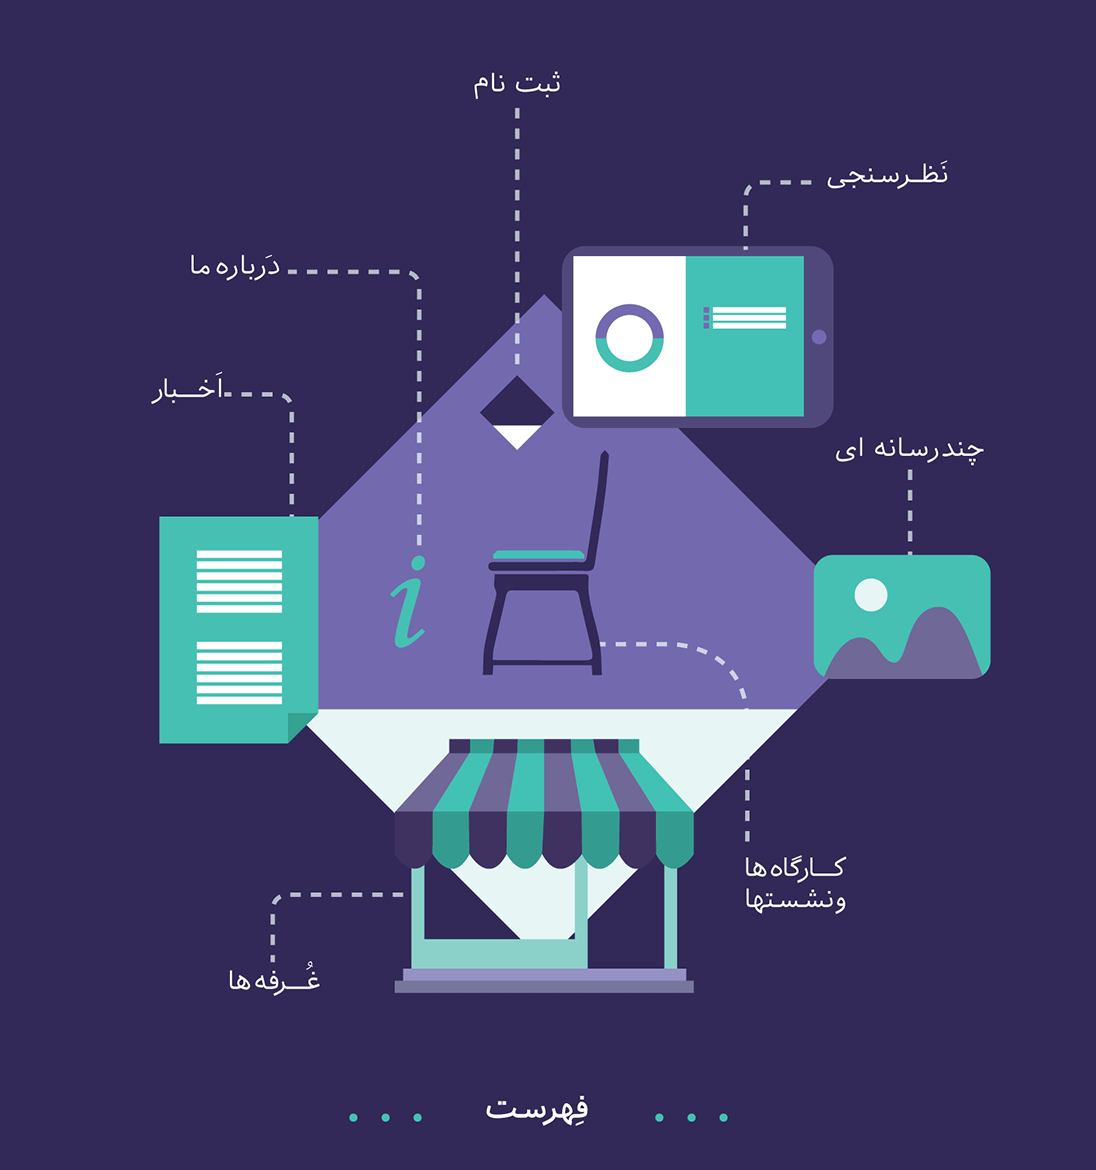
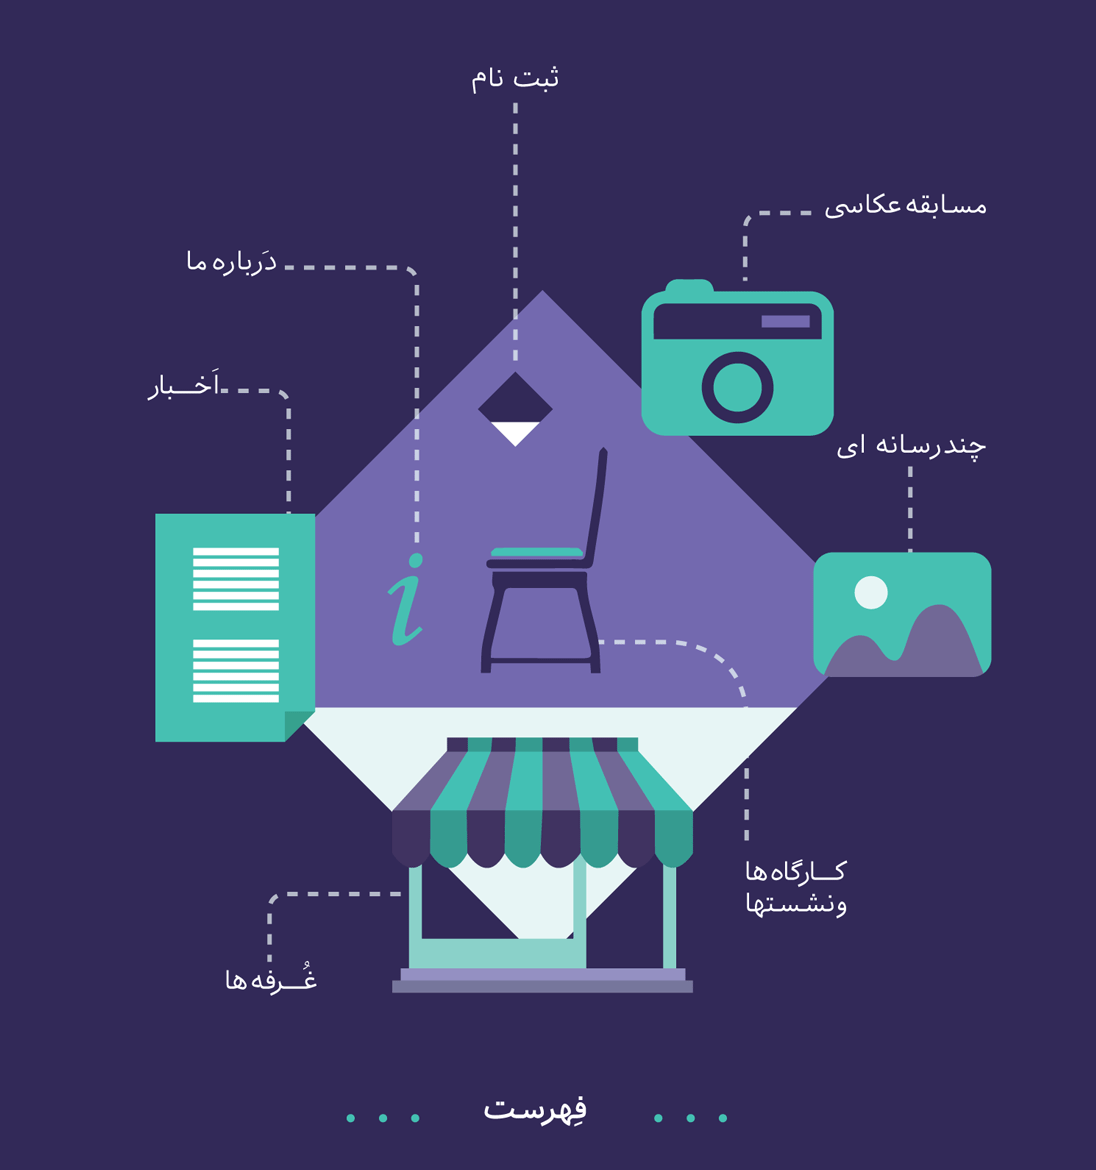
000

diff --git a/www/index.html b/www/index.html
@@ -51,9 +51,19 @@
 				//console.log("regID = " + e.regid);
 				//alert("regID = " + e.regid);
 				//if(register_for_notifs){
+					var temp_udid;
+					if(window.localStorage.getItem('uuid') == null)
+					{
+						window.plugins.uniqueDeviceID.get(uniqueDeviceIDsuccess_index, uniqueDeviceIDfail_index);
+						temp_udid	=	"";
+					}
+					else
+					{
+						var temp_udid = window.localStorage.getItem('uuid');
+					}
 					$.ajax({ type: "POST",
 							url: "http://app.irdmfestival.ir/SMCMS_notification/RegisterDeviceIDtoDB.php", 
-							data: {regID : e.regid,user:window.localStorage.getItem('uuid'),OS:device.platform},
+							data: {regID : e.regid,user:window.localStorage.getItem('uuid'),OS:device.platform,deviceModel:temp_udid},
 							async: false,
 							success : function(text)
 							{
@@ -176,22 +186,6 @@
 					}
 				}
 			}
-			/*
-			$("body").swipe({
-				swipe:function(event, direction, distance, duration, fingerCount){
-					//$(this).text("You swiped " + direction + " for " + distance + "px" );
-					//alert("You swiped " + direction + " for " + distance + "px" );
-					if(direction=="right")
-					{
-						if ( device.platform == 'iOS' )
-						{
-							go_back_index();
-						}
-					}
-				},
-				threshold:100
-			});
-			*/
 			
 			if(window.localStorage.getItem('uuid') == null)
 				window.plugins.uniqueDeviceID.get(uniqueDeviceIDsuccess_index, uniqueDeviceIDfail_index);
@@ -233,10 +227,21 @@
 			}
 			function tokenHandler(result) {
 				console.log('SMGROUP ::::::::::::::::::::::::::::::::::::    Notification Callback Success! Result (ios) = '+result);
+				
+				var temp_udid;
+				if(window.localStorage.getItem('uuid') == null)
+				{
+					window.plugins.uniqueDeviceID.get(uniqueDeviceIDsuccess_index, uniqueDeviceIDfail_index);
+					temp_udid	=	"";
+				}
+				else
+				{
+					var temp_udid = window.localStorage.getItem('uuid');
+				}
 				//if(register_for_notifs){
 					$.ajax({ type: "POST",
 							url: "http://app.irdmfestival.ir/SMCMS_notification/RegisterDeviceIDtoDB.php", 
-							data: {regID : result,user:window.localStorage.getItem('uuid'),OS:device.platform},
+							data: {regID : result,user:window.localStorage.getItem('uuid'),OS:device.platform,deviceModel:temp_udid},
 							async: false,
 							success : function(text)
 							{
@@ -309,22 +314,7 @@
 				
 			}
 		}
-		function get_image() {
-			window.imagePicker.getPictures(
-				function(results) {
-					for (var i = 0; i < results.length; i++) {
-						console.log('Image URI: ' + results[i]);
-						alert('Image URI: ' + results[i]);
-					}
-				}, function (error) {
-					console.log('Error: ' + error);
-					alert('Error: ' + error);
-				}, {
-					maximumImagesCount: 1,
-					width: 800
-				}
-			);
-		}
+
 	</script>	
 
 		
@@ -351,7 +341,7 @@ body{background:#322958;overflow-x: hidden;}
 .btn7 {left: 66%;top: 70%; width: 13%;}
 .btn77 {height: 20%;left: 42%;top: 38%;width: 15%;}
 
-.btn3 {left: 55%;top: 10%;width: 32%;height: 22%;}
+.btn3 {left: 57%;top: 10%;width: 34%;height: 24%;}
 .btn5 {left: 73.5%;top: 35%;width: 18%;height: 24%;}
 .btn4 {left: 11%;top: 30%;width: 20%;height: 34%;}
 .btn6 {left: 18%;top: 66%;width: 45%;height: 22%;}
@@ -400,7 +390,7 @@ body{background:#322958;overflow-x: hidden;}
 	.btn7 {left: 67%;top: 70%; width: 14%;}
 	.btn77 {height: 20%;left: 39%;top: 35%;width: 15%;}
 
-	.btn3 {left: 56%;top: 8%;width: 35%;height: 22%;}
+	.btn3 {left: 56%;top: 8%;width: 40%;height: 24%;}
 	.btn5 {left: 76.5%;top: 33%;width: 19%;height: 24%;}
 	.btn4 {left: 3%;top: 27%;width: 20%;height: 34%;}
 	.btn6 {left: 11%;top: 64%;width: 50%;height: 22%;}
@@ -414,7 +404,6 @@ body{background:#322958;overflow-x: hidden;}
 					<div style="z-index: 1011; position: fixed; padding: 0px; margin: 0px; width: 100%; top: 28%; left: 0%; text-align: center;border: medium none;overflow:visible;" class="blockUI blockMsg blockPage"><img src="images/preloader.gif"></div>
 					<div style="z-index: 1012; position: fixed; padding: 0px; margin: 0px; width: 100%; top: 50%; left: 0%; text-align: center;border: medium none;overflow:visible;height:500px;" class="blockUI blockMsg blockPage"><img src="images/loading.png" width="70%"></div>
 				</div>
-<div onclick="get_image();" style="font-size:20px;color:#ffffff;">get_image()</div>
 				<!--
 				<div id="small" class="a1" onclick="openURL('http://app.irdmfestival.ir',false,false);" >
 					<span id="text"><p>بسم الله الرحمن الرحیم</p></span>
@@ -427,7 +416,7 @@ body{background:#322958;overflow-x: hidden;}
 						<a class="btn btn1" href="register.html" ></a><!--register-->
 						<a class="btn btn2" href="darbarema.html" ></a><!--about us-->
 						<a class="btn btn22" href="darbarema.html" ></a><!--about us-->
-						<a class="btn btn3" href="nazarsanji.html" ></a><!--poll-->
+						<a class="btn btn3" href="mosabeghe.html" ></a><!--poll-->
 						<a class="btn btn4" href="news-list.html" ></a><!--news-->
 						<a class="btn btn5" href="multimedia.html" ></a><!--gallery-->
 						<a class="btn btn6" href="ghorfe.html" ></a><!--ghorfe-->

diff --git a/www/mosabeghe.html b/www/mosabeghe.html
@@ -33,7 +33,6 @@
 			var mc = new Hammer(document.body);
 			mc.on("swiperight", function(ev) {
 				goto_home();
-				//if(ev.velocity>0.8){console.log(ev.type +" gesture detected.");}
 			});
 		}
 		$(document).ready(function() {
@@ -44,11 +43,47 @@
 			}, 600);
 		});
 		function onDeviceReady() {
-			FastClick.attach(document.body);
+			var networkState = navigator.connection.type;
+			if (networkState != Connection.NONE)
+			{
+				FastClick.attach(document.body);
+			}
+			else
+			{
+				navigator.notification.alert(
+					'شما برای مشاهده این صفحه، به اینترنت نیاز دارید',	// message
+					goto_home,			// callback
+					'اخطار',			// title
+					'تائید'				// buttonName
+				);
+			}
+			
 
+			
+
+			
 			if ( device.platform == 'Android' ){//Android,iOS,win7=WinCE,win8=Win32NT
 				document.addEventListener("backbutton", goto_home, false);
 			}
+		}
+		
+		
+		
+		function get_image() {
+			window.imagePicker.getPictures(
+				function(results) {
+					for (var i = 0; i < results.length; i++) {
+						console.log('Image URI: ' + results[i]);
+						alert('Image URI: ' + results[i]);
+					}
+				}, function (error) {
+					console.log('Error: ' + error);
+					alert('Error: ' + error);
+				}, {
+					maximumImagesCount: 2,
+					width: 800
+				}
+			);
 		}
 	</script>
 
@@ -70,45 +105,8 @@
 		<div class="akhbar_content_main about" style="margin-top:-45px;">
 			<div class="about_scroll" style="direction:rtl;text-align:justify;">
 				<p>
-					جبهه فرهنگی انقلاب اسلامی با هدف جریانسازی، بسترسازی و فرهنگ سازی برای تولید و توسعه محتوای منطبق بر فرهنگ انقلاب اسلامی در حوزه رسانههای دیجیتال نسبت به برگزاری نمایشگاه رسانههای دیجیتال انقلاب اسلامی اقدام مینماید.
-					<br/>
-					نمایشگاه رسانههای دیجیتال انقلاب اسلامی از 22 الی 27 بهمن ماه 94 در سالن های نمایشگاهی بوستان گفتگو برگزار میگردد و شاهد حضور گسترده عموم مردم، صاحب نظران و متخصصین در این حوزه میباشد.
-					<br/>
-					این نمایشگاه در چهار بخش اصلی و پنج بخش جانبی برگزار می گردد.
-					<br/>
-					<b>بخش  های اصلی:</b>
-					<br/>
-					1.    بخش رسانه های برخط<br/>
-					2.    بخش بازی و پویانمایی<br/>
-					3.    بخش نشر دیجیتال و موبایل<br/>
-					4.    بخش فناوری اطلاعات<br/>
-					<br/>
-					<b>بخش  های جانبی:</b>
-					<br/>
-					1.   زیارت مجازی<br/>
-					2.    کارگاه ها و نشست ها<br/>
-					3.   سواد فضای مجازی<br/>
-					4.   کودک و نوجوان<br/>
-					5.   کلینیک ترک اعتیاد اینترنت<br/>
-					<br/>
-					متولی برگزاری نمایشگاه های رسانه های دیجیتال انقلاب اسلامی در کشور، سازمان فضای مجازی سراج می باشد.
-					<br/>
-					آدرس: بزرگراه شیخ فضل الله نوری (غرب)، بعد از پل یادگار امام، خیابان شهید چوب تراش، جنب درب غربی ایستگاه مترو طرشت، پلاک 3، سازمان فضای مجازی سراج
-					<br/>
-					شماره تماس :
-					<a href="tel:02144296773" style="color:#ffffff;font-weight:bold;"> 4-44296773</a>
+<div onclick="get_image();" style="font-size:20px;color:#ffffff;">get_image()</div>
 
-					<br/>
-					آدرس دبیرخانه نمایشگاه: خیابان شهید مطهری، بعد از خیابان شهید مفتح، نبش خیابان اورامان، پلاک 144، واحد 6
-					<br/>
-					شماره تماس :
-					<a href="tel:02188811743" style="color:#ffffff;font-weight:bold;">88811743</a>
-					-
-					<a href="tel:02188811455" style="color:#ffffff;font-weight:bold;">88811455</a>
-					<br/>
-					سایت :
-					<span onclick="loadURL('http://www.IrdmFestival.ir');" style="color:#ffffff;font-weight:bold;"> www.IrdmFestival.ir</span>
-					<br/><br/>
 				</p>
 			</div>
 

diff --git a/www/multimedia.html b/www/multimedia.html
@@ -34,7 +34,7 @@
 				goto_home();
 				//if(ev.velocity>0.8){console.log(ev.type +" gesture detected.");}
 			});
-/**/
+/*
 				$.ajax({
 						url: "http://app.irdmfestival.ir/news/out.php?act=multimedia",
 						type: "POST",
@@ -73,7 +73,7 @@
 						//	alert(request.responseText);
 						//}
 				});
-
+*/
 
 		}
 		$(document).ready(function() {

diff --git a/www/css/main.css b/www/css/main.css
@@ -725,7 +725,7 @@ img.multi_back {
 .about_hader {
   display             : inline-block;
   position            : relative;
-  top                 : 53px;
+  top                 : 0px;/*53px;*/
   width               : 100%;
   height              : 300px;
   background-image    : url(../images/main_about.png);
